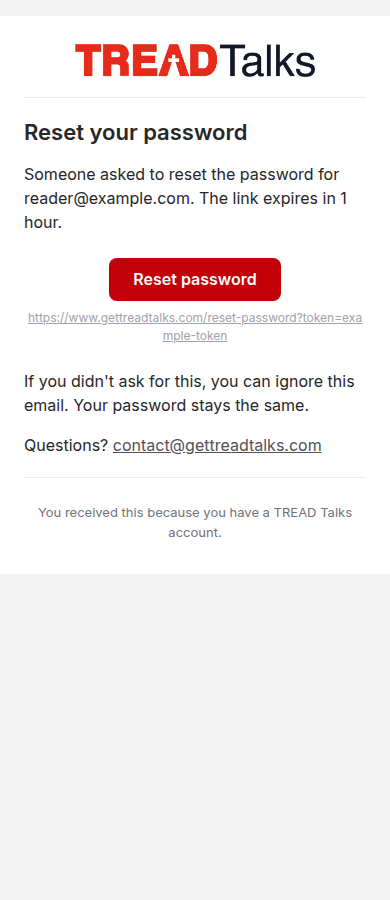
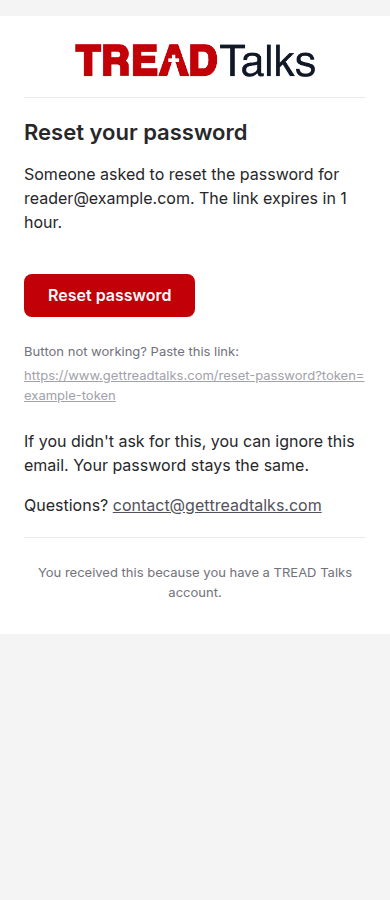
Update VOLTA-284 after shots for email UX review

Changed region(s): [[0.0615, 0.28, 0.9231, 0.6844], [0.1846, 0.0311, 0.5538, 0.0933]]

diff --git a/284/reset-after.html b/284/reset-after.html
@@ -1,1 +1,1 @@
-<!DOCTYPE html PUBLIC "-//W3C//DTD XHTML 1.0 Transitional//EN" "http://www.w3.org/TR/xhtml1/DTD/xhtml1-transitional.dtd"><html dir="ltr" lang="en"><head><meta content="text/html; charset=UTF-8" http-equiv="Content-Type"/><meta name="x-apple-disable-message-reformatting"/><meta content="light" name="color-scheme"/><meta content="light" name="supported-color-schemes"/><title>Reset your TREAD Talks password. This link expires in 1 hour.</title></head><body dir="ltr" lang="en" style="background-color:#f4f4f5;margin:0;padding:0"><!--$--><!--html--><!--head--><div style="display:none;overflow:hidden;line-height:1px;opacity:0;max-height:0;max-width:0" data-skip-in-text="true">Reset your TREAD Talks password. This link expires in 1 hour.<div>                                                                                                                                           </div></div><!--body--><table border="0" width="100%" cellPadding="0" cellSpacing="0" role="presentation" align="center"><tbody><tr><td dir="ltr" lang="en" style="background-color:#f4f4f5;font-family:Inter, ui-sans-serif, -apple-system, BlinkMacSystemFont, &quot;Segoe UI&quot;, Helvetica, Arial, sans-serif;margin:0;padding:16px 0;width:100%"><table align="center" width="100%" border="0" cellPadding="0" cellSpacing="0" role="presentation" style="max-width:600px;background-color:#ffffff;margin:0 auto;width:100%"><tbody><tr style="width:100%"><td style="padding:28px 24px 32px"><table align="center" width="100%" border="0" cellPadding="0" cellSpacing="0" role="presentation" style="text-align:center"><tbody><tr><td><a href="https://www.gettreadtalks.com" style="color:#067df7;text-decoration-line:none;display:inline-block;text-decoration:none" target="_blank"><img alt="TREAD Talks" height="33" src="https://www.gettreadtalks.com/logo.png" style="display:block;outline:none;border:none;text-decoration:none;height:33px;margin:0 auto;width:240px" width="240"/></a></td></tr></tbody></table><hr style="width:100%;border:none;border-color:#e4e4e7;border-top:1px solid #eaeaea;margin:20px 0"/><h1 style="color:#27272a;font-size:22px;font-weight:600;line-height:28px;margin:0 0 16px;padding:0">Reset your password</h1><p style="font-size:16px;line-height:24px;color:#27272a;margin:0 0 16px;margin-top:0;margin-right:0;margin-bottom:16px;margin-left:0">Someone asked to reset the password for <!-- -->reader@example.com<!-- -->. The link expires in 1 hour.</p><table align="center" width="100%" border="0" cellPadding="0" cellSpacing="0" role="presentation" style="margin:24px 0 8px;text-align:center"><tbody><tr><td><a href="https://www.gettreadtalks.com/reset-password?token=example-token" style="line-height:24px;text-decoration:none;display:inline-block;max-width:100%;mso-padding-alt:0px;background-color:#c10007;border-radius:8px;color:#fafafa;font-size:16px;font-weight:600;padding:12px 24px;padding-top:12px;padding-right:24px;padding-bottom:12px;padding-left:24px" target="_blank"><span><!--[if mso]><i style="mso-font-width:400%;mso-text-raise:18px" hidden>&#8202;&#8202;&#8202;</i><![endif]--></span><span style="max-width:100%;display:inline-block;line-height:120%;mso-padding-alt:0px;mso-text-raise:9px">Reset password</span><span><!--[if mso]><i style="mso-font-width:400%" hidden>&#8202;&#8202;&#8202;&#8203;</i><![endif]--></span></a></td></tr></tbody></table><table align="center" width="100%" border="0" cellPadding="0" cellSpacing="0" role="presentation"><tbody><tr><td><a href="https://www.gettreadtalks.com/reset-password?token=example-token" style="color:#a1a1aa;text-decoration-line:none;display:block;font-size:12px;line-height:18px;margin:0 0 24px;text-align:center;text-decoration:underline;word-break:break-all" target="_blank">https://www.gettreadtalks.com/reset-password?token=example-token</a></td></tr></tbody></table><p style="font-size:16px;line-height:24px;color:#27272a;margin:0 0 16px;margin-top:0;margin-right:0;margin-bottom:16px;margin-left:0">If you didn&#x27;t ask for this, you can ignore this email. Your password stays the same.</p><p style="font-size:16px;line-height:24px;color:#27272a;margin:0 0 16px;margin-top:0;margin-right:0;margin-bottom:16px;margin-left:0">Questions?<!-- --> <a href="mailto:contact@gettreadtalks.com" style="color:#52525b;text-decoration-line:none;text-decoration:underline" target="_blank">contact@gettreadtalks.com</a></p><hr style="width:100%;border:none;border-color:#e4e4e7;border-top:1px solid #eaeaea;margin:20px 0"/><table align="center" width="100%" border="0" cellPadding="0" cellSpacing="0" role="presentation" style="text-align:center"><tbody><tr><td style="padding-top:4px"><p style="font-size:13px;line-height:20px;color:#71717a;margin:0;margin-top:0;margin-bottom:0;margin-left:0;margin-right:0">You received this because you have a <!-- -->TREAD Talks<!-- --> account.</p></td></tr></tbody></table></td></tr></tbody></table></td></tr></tbody></table><!--/$--></body></html>
+<!DOCTYPE html PUBLIC "-//W3C//DTD XHTML 1.0 Transitional//EN" "http://www.w3.org/TR/xhtml1/DTD/xhtml1-transitional.dtd"><html dir="ltr" lang="en"><head><meta content="text/html; charset=UTF-8" http-equiv="Content-Type"/><meta name="x-apple-disable-message-reformatting"/><meta content="light" name="color-scheme"/><meta content="light" name="supported-color-schemes"/><title>Reset your TREAD Talks password. This link expires in 1 hour.</title></head><body dir="ltr" lang="en" style="background-color:#f4f4f5;margin:0;padding:0"><!--$--><!--html--><!--head--><div style="display:none;overflow:hidden;line-height:1px;opacity:0;max-height:0;max-width:0" data-skip-in-text="true">Reset your TREAD Talks password. This link expires in 1 hour.<div>                                                                                                                                           </div></div><!--body--><table border="0" width="100%" cellPadding="0" cellSpacing="0" role="presentation" align="center"><tbody><tr><td dir="ltr" lang="en" style="background-color:#f4f4f5;font-family:Inter, ui-sans-serif, -apple-system, BlinkMacSystemFont, &quot;Segoe UI&quot;, Helvetica, Arial, sans-serif;margin:0;padding:16px 0;width:100%"><table align="center" width="100%" border="0" cellPadding="0" cellSpacing="0" role="presentation" style="max-width:600px;background-color:#ffffff;margin:0 auto;width:100%"><tbody><tr style="width:100%"><td style="padding:28px 24px 32px"><table align="center" width="100%" border="0" cellPadding="0" cellSpacing="0" role="presentation" style="text-align:center"><tbody><tr><td><a href="https://www.gettreadtalks.com" style="color:#067df7;text-decoration-line:none;display:inline-block;text-decoration:none" target="_blank"><img alt="TREAD Talks" height="33" src="https://www.gettreadtalks.com/logo.png" style="display:block;outline:none;border:none;text-decoration:none;height:33px;margin:0 auto;width:240px" width="240"/></a></td></tr></tbody></table><hr style="width:100%;border:none;border-color:#e4e4e7;border-top:1px solid #eaeaea;margin:20px 0"/><h1 style="color:#27272a;font-size:22px;font-weight:600;line-height:28px;margin:0 0 16px;padding:0">Reset your password</h1><p style="font-size:16px;line-height:24px;color:#27272a;margin:0 0 16px;margin-top:0;margin-right:0;margin-bottom:16px;margin-left:0">Someone asked to reset the password for <!-- -->reader@example.com<!-- -->. The link expires in 1 hour.</p><table align="left" width="100%" border="0" cellPadding="0" cellSpacing="0" role="presentation" style="margin:24px 0;text-align:left"><tbody><tr><td><a href="https://www.gettreadtalks.com/reset-password?token=example-token" style="line-height:24px;text-decoration:none;display:inline-block;max-width:100%;mso-padding-alt:0px;background-color:#c10007;border-radius:8px;color:#fafafa;font-size:16px;font-weight:600;padding:12px 24px;padding-top:12px;padding-right:24px;padding-bottom:12px;padding-left:24px" target="_blank"><span><!--[if mso]><i style="mso-font-width:400%;mso-text-raise:18px" hidden>&#8202;&#8202;&#8202;</i><![endif]--></span><span style="max-width:100%;display:inline-block;line-height:120%;mso-padding-alt:0px;mso-text-raise:9px">Reset password</span><span><!--[if mso]><i style="mso-font-width:400%" hidden>&#8202;&#8202;&#8202;&#8203;</i><![endif]--></span></a></td></tr></tbody></table><p style="font-size:13px;line-height:20px;color:#71717a;margin:0 0 24px;margin-top:0;margin-right:0;margin-bottom:24px;margin-left:0">Button not working? Paste this link:<a href="https://www.gettreadtalks.com/reset-password?token=example-token" style="color:#a1a1aa;text-decoration-line:none;display:block;font-size:13px;line-height:20px;margin:4px 0 0;text-decoration:underline;word-break:break-all" target="_blank">https://www.gettreadtalks.com/reset-password?token=example-token</a></p><p style="font-size:16px;line-height:24px;color:#27272a;margin:0 0 16px;margin-top:0;margin-right:0;margin-bottom:16px;margin-left:0">If you didn&#x27;t ask for this, you can ignore this email. Your password stays the same.</p><p style="font-size:16px;line-height:24px;color:#27272a;margin:0 0 16px;margin-top:0;margin-right:0;margin-bottom:16px;margin-left:0">Questions?<!-- --> <a href="mailto:contact@gettreadtalks.com" style="color:#52525b;text-decoration-line:none;text-decoration:underline" target="_blank">contact@gettreadtalks.com</a></p><hr style="width:100%;border:none;border-color:#e4e4e7;border-top:1px solid #eaeaea;margin:20px 0"/><table align="center" width="100%" border="0" cellPadding="0" cellSpacing="0" role="presentation" style="text-align:center"><tbody><tr><td style="padding-top:4px"><p style="font-size:13px;line-height:20px;color:#71717a;margin:0;margin-top:0;margin-bottom:0;margin-left:0;margin-right:0">You received this because you have a <!-- -->TREAD Talks<!-- --> account.</p></td></tr></tbody></table></td></tr></tbody></table></td></tr></tbody></table><!--/$--></body></html>

diff --git a/284/verify-after.html b/284/verify-after.html
@@ -1,1 +1,1 @@
-<!DOCTYPE html PUBLIC "-//W3C//DTD XHTML 1.0 Transitional//EN" "http://www.w3.org/TR/xhtml1/DTD/xhtml1-transitional.dtd"><html dir="ltr" lang="en"><head><meta content="text/html; charset=UTF-8" http-equiv="Content-Type"/><meta name="x-apple-disable-message-reformatting"/><meta content="light" name="color-scheme"/><meta content="light" name="supported-color-schemes"/><title>Confirm your email for TREAD Talks. This link expires in 24 hours.</title></head><body dir="ltr" lang="en" style="background-color:#f4f4f5;margin:0;padding:0"><!--$--><!--html--><!--head--><div style="display:none;overflow:hidden;line-height:1px;opacity:0;max-height:0;max-width:0" data-skip-in-text="true">Confirm your email for TREAD Talks. This link expires in 24 hours.<div>                                                                                                                                      </div></div><!--body--><table border="0" width="100%" cellPadding="0" cellSpacing="0" role="presentation" align="center"><tbody><tr><td dir="ltr" lang="en" style="background-color:#f4f4f5;font-family:Inter, ui-sans-serif, -apple-system, BlinkMacSystemFont, &quot;Segoe UI&quot;, Helvetica, Arial, sans-serif;margin:0;padding:16px 0;width:100%"><table align="center" width="100%" border="0" cellPadding="0" cellSpacing="0" role="presentation" style="max-width:600px;background-color:#ffffff;margin:0 auto;width:100%"><tbody><tr style="width:100%"><td style="padding:28px 24px 32px"><table align="center" width="100%" border="0" cellPadding="0" cellSpacing="0" role="presentation" style="text-align:center"><tbody><tr><td><a href="https://www.gettreadtalks.com" style="color:#067df7;text-decoration-line:none;display:inline-block;text-decoration:none" target="_blank"><img alt="TREAD Talks" height="33" src="https://www.gettreadtalks.com/logo.png" style="display:block;outline:none;border:none;text-decoration:none;height:33px;margin:0 auto;width:240px" width="240"/></a></td></tr></tbody></table><hr style="width:100%;border:none;border-color:#e4e4e7;border-top:1px solid #eaeaea;margin:20px 0"/><h1 style="color:#27272a;font-size:22px;font-weight:600;line-height:28px;margin:0 0 16px;padding:0">Confirm your email</h1><p style="font-size:16px;line-height:24px;color:#27272a;margin:0 0 16px;margin-top:0;margin-right:0;margin-bottom:16px;margin-left:0">Finish creating your <!-- -->TREAD Talks<!-- --> account. This link expires in 24 hours.</p><table align="center" width="100%" border="0" cellPadding="0" cellSpacing="0" role="presentation" style="margin:24px 0 8px;text-align:center"><tbody><tr><td><a href="https://www.gettreadtalks.com/verify-email?token=example-token" style="line-height:24px;text-decoration:none;display:inline-block;max-width:100%;mso-padding-alt:0px;background-color:#c10007;border-radius:8px;color:#fafafa;font-size:16px;font-weight:600;padding:12px 24px;padding-top:12px;padding-right:24px;padding-bottom:12px;padding-left:24px" target="_blank"><span><!--[if mso]><i style="mso-font-width:400%;mso-text-raise:18px" hidden>&#8202;&#8202;&#8202;</i><![endif]--></span><span style="max-width:100%;display:inline-block;line-height:120%;mso-padding-alt:0px;mso-text-raise:9px">Verify email</span><span><!--[if mso]><i style="mso-font-width:400%" hidden>&#8202;&#8202;&#8202;&#8203;</i><![endif]--></span></a></td></tr></tbody></table><table align="center" width="100%" border="0" cellPadding="0" cellSpacing="0" role="presentation"><tbody><tr><td><a href="https://www.gettreadtalks.com/verify-email?token=example-token" style="color:#a1a1aa;text-decoration-line:none;display:block;font-size:12px;line-height:18px;margin:0 0 24px;text-align:center;text-decoration:underline;word-break:break-all" target="_blank">https://www.gettreadtalks.com/verify-email?token=example-token</a></td></tr></tbody></table><p style="font-size:16px;line-height:24px;color:#27272a;margin:0 0 16px;margin-top:0;margin-right:0;margin-bottom:16px;margin-left:0">If you didn&#x27;t create an account, you can ignore this email.</p><p style="font-size:16px;line-height:24px;color:#27272a;margin:0 0 16px;margin-top:0;margin-right:0;margin-bottom:16px;margin-left:0">Questions?<!-- --> <a href="mailto:contact@gettreadtalks.com" style="color:#52525b;text-decoration-line:none;text-decoration:underline" target="_blank">contact@gettreadtalks.com</a></p><hr style="width:100%;border:none;border-color:#e4e4e7;border-top:1px solid #eaeaea;margin:20px 0"/><table align="center" width="100%" border="0" cellPadding="0" cellSpacing="0" role="presentation" style="text-align:center"><tbody><tr><td style="padding-top:4px"><p style="font-size:13px;line-height:20px;color:#71717a;margin:0;margin-top:0;margin-bottom:0;margin-left:0;margin-right:0">You received this because you have a <!-- -->TREAD Talks<!-- --> account.</p></td></tr></tbody></table></td></tr></tbody></table></td></tr></tbody></table><!--/$--></body></html>
+<!DOCTYPE html PUBLIC "-//W3C//DTD XHTML 1.0 Transitional//EN" "http://www.w3.org/TR/xhtml1/DTD/xhtml1-transitional.dtd"><html dir="ltr" lang="en"><head><meta content="text/html; charset=UTF-8" http-equiv="Content-Type"/><meta name="x-apple-disable-message-reformatting"/><meta content="light" name="color-scheme"/><meta content="light" name="supported-color-schemes"/><title>Confirm your email for TREAD Talks. This link expires in 24 hours.</title></head><body dir="ltr" lang="en" style="background-color:#f4f4f5;margin:0;padding:0"><!--$--><!--html--><!--head--><div style="display:none;overflow:hidden;line-height:1px;opacity:0;max-height:0;max-width:0" data-skip-in-text="true">Confirm your email for TREAD Talks. This link expires in 24 hours.<div>                                                                                                                                      </div></div><!--body--><table border="0" width="100%" cellPadding="0" cellSpacing="0" role="presentation" align="center"><tbody><tr><td dir="ltr" lang="en" style="background-color:#f4f4f5;font-family:Inter, ui-sans-serif, -apple-system, BlinkMacSystemFont, &quot;Segoe UI&quot;, Helvetica, Arial, sans-serif;margin:0;padding:16px 0;width:100%"><table align="center" width="100%" border="0" cellPadding="0" cellSpacing="0" role="presentation" style="max-width:600px;background-color:#ffffff;margin:0 auto;width:100%"><tbody><tr style="width:100%"><td style="padding:28px 24px 32px"><table align="center" width="100%" border="0" cellPadding="0" cellSpacing="0" role="presentation" style="text-align:center"><tbody><tr><td><a href="https://www.gettreadtalks.com" style="color:#067df7;text-decoration-line:none;display:inline-block;text-decoration:none" target="_blank"><img alt="TREAD Talks" height="33" src="https://www.gettreadtalks.com/logo.png" style="display:block;outline:none;border:none;text-decoration:none;height:33px;margin:0 auto;width:240px" width="240"/></a></td></tr></tbody></table><hr style="width:100%;border:none;border-color:#e4e4e7;border-top:1px solid #eaeaea;margin:20px 0"/><h1 style="color:#27272a;font-size:22px;font-weight:600;line-height:28px;margin:0 0 16px;padding:0">Confirm your email</h1><p style="font-size:16px;line-height:24px;color:#27272a;margin:0 0 16px;margin-top:0;margin-right:0;margin-bottom:16px;margin-left:0">Finish creating your <!-- -->TREAD Talks<!-- --> account. This link expires in 24 hours.</p><table align="left" width="100%" border="0" cellPadding="0" cellSpacing="0" role="presentation" style="margin:24px 0;text-align:left"><tbody><tr><td><a href="https://www.gettreadtalks.com/verify-email?token=example-token" style="line-height:24px;text-decoration:none;display:inline-block;max-width:100%;mso-padding-alt:0px;background-color:#c10007;border-radius:8px;color:#fafafa;font-size:16px;font-weight:600;padding:12px 24px;padding-top:12px;padding-right:24px;padding-bottom:12px;padding-left:24px" target="_blank"><span><!--[if mso]><i style="mso-font-width:400%;mso-text-raise:18px" hidden>&#8202;&#8202;&#8202;</i><![endif]--></span><span style="max-width:100%;display:inline-block;line-height:120%;mso-padding-alt:0px;mso-text-raise:9px">Verify email</span><span><!--[if mso]><i style="mso-font-width:400%" hidden>&#8202;&#8202;&#8202;&#8203;</i><![endif]--></span></a></td></tr></tbody></table><p style="font-size:13px;line-height:20px;color:#71717a;margin:0 0 24px;margin-top:0;margin-right:0;margin-bottom:24px;margin-left:0">Button not working? Paste this link:<a href="https://www.gettreadtalks.com/verify-email?token=example-token" style="color:#a1a1aa;text-decoration-line:none;display:block;font-size:13px;line-height:20px;margin:4px 0 0;text-decoration:underline;word-break:break-all" target="_blank">https://www.gettreadtalks.com/verify-email?token=example-token</a></p><p style="font-size:16px;line-height:24px;color:#27272a;margin:0 0 16px;margin-top:0;margin-right:0;margin-bottom:16px;margin-left:0">If you didn&#x27;t create an account, you can ignore this email.</p><p style="font-size:16px;line-height:24px;color:#27272a;margin:0 0 16px;margin-top:0;margin-right:0;margin-bottom:16px;margin-left:0">Questions?<!-- --> <a href="mailto:contact@gettreadtalks.com" style="color:#52525b;text-decoration-line:none;text-decoration:underline" target="_blank">contact@gettreadtalks.com</a></p><hr style="width:100%;border:none;border-color:#e4e4e7;border-top:1px solid #eaeaea;margin:20px 0"/><table align="center" width="100%" border="0" cellPadding="0" cellSpacing="0" role="presentation" style="text-align:center"><tbody><tr><td style="padding-top:4px"><p style="font-size:13px;line-height:20px;color:#71717a;margin:0;margin-top:0;margin-bottom:0;margin-left:0;margin-right:0">You received this because you have a <!-- -->TREAD Talks<!-- --> account.</p></td></tr></tbody></table></td></tr></tbody></table></td></tr></tbody></table><!--/$--></body></html>

diff --git a/284/welcome-after.html b/284/welcome-after.html
@@ -1,1 +1,1 @@
-<!DOCTYPE html PUBLIC "-//W3C//DTD XHTML 1.0 Transitional//EN" "http://www.w3.org/TR/xhtml1/DTD/xhtml1-transitional.dtd"><html dir="ltr" lang="en"><head><meta content="text/html; charset=UTF-8" http-equiv="Content-Type"/><meta name="x-apple-disable-message-reformatting"/><meta content="light" name="color-scheme"/><meta content="light" name="supported-color-schemes"/><title>Welcome to TREAD Talks, Pat.</title></head><body dir="ltr" lang="en" style="background-color:#f4f4f5;margin:0;padding:0"><!--$--><!--html--><!--head--><div style="display:none;overflow:hidden;line-height:1px;opacity:0;max-height:0;max-width:0" data-skip-in-text="true">Welcome to TREAD Talks, Pat.<div>                                                                                                                                                                            </div></div><!--body--><table border="0" width="100%" cellPadding="0" cellSpacing="0" role="presentation" align="center"><tbody><tr><td dir="ltr" lang="en" style="background-color:#f4f4f5;font-family:Inter, ui-sans-serif, -apple-system, BlinkMacSystemFont, &quot;Segoe UI&quot;, Helvetica, Arial, sans-serif;margin:0;padding:16px 0;width:100%"><table align="center" width="100%" border="0" cellPadding="0" cellSpacing="0" role="presentation" style="max-width:600px;background-color:#ffffff;margin:0 auto;width:100%"><tbody><tr style="width:100%"><td style="padding:28px 24px 32px"><table align="center" width="100%" border="0" cellPadding="0" cellSpacing="0" role="presentation" style="text-align:center"><tbody><tr><td><a href="https://www.gettreadtalks.com" style="color:#067df7;text-decoration-line:none;display:inline-block;text-decoration:none" target="_blank"><img alt="TREAD Talks" height="33" src="https://www.gettreadtalks.com/logo.png" style="display:block;outline:none;border:none;text-decoration:none;height:33px;margin:0 auto;width:240px" width="240"/></a></td></tr></tbody></table><hr style="width:100%;border:none;border-color:#e4e4e7;border-top:1px solid #eaeaea;margin:20px 0"/><h1 style="color:#27272a;font-size:22px;font-weight:600;line-height:28px;margin:0 0 16px;padding:0">Welcome, Pat</h1><p style="font-size:16px;line-height:24px;color:#27272a;margin:0 0 16px;margin-top:0;margin-right:0;margin-bottom:16px;margin-left:0">Your <!-- -->TREAD Talks<!-- --> account is ready. Browse talks and save favorites to come back to.</p><table align="center" width="100%" border="0" cellPadding="0" cellSpacing="0" role="presentation" style="margin:24px 0 8px;text-align:center"><tbody><tr><td><a href="https://www.gettreadtalks.com" style="line-height:24px;text-decoration:none;display:inline-block;max-width:100%;mso-padding-alt:0px;background-color:#c10007;border-radius:8px;color:#fafafa;font-size:16px;font-weight:600;padding:12px 24px;padding-top:12px;padding-right:24px;padding-bottom:12px;padding-left:24px" target="_blank"><span><!--[if mso]><i style="mso-font-width:400%;mso-text-raise:18px" hidden>&#8202;&#8202;&#8202;</i><![endif]--></span><span style="max-width:100%;display:inline-block;line-height:120%;mso-padding-alt:0px;mso-text-raise:9px">Explore talks</span><span><!--[if mso]><i style="mso-font-width:400%" hidden>&#8202;&#8202;&#8202;&#8203;</i><![endif]--></span></a></td></tr></tbody></table><table align="center" width="100%" border="0" cellPadding="0" cellSpacing="0" role="presentation"><tbody><tr><td><a href="https://www.gettreadtalks.com" style="color:#a1a1aa;text-decoration-line:none;display:block;font-size:12px;line-height:18px;margin:0 0 24px;text-align:center;text-decoration:underline;word-break:break-all" target="_blank">https://www.gettreadtalks.com</a></td></tr></tbody></table><p style="font-size:16px;line-height:24px;color:#27272a;margin:0 0 16px;margin-top:0;margin-right:0;margin-bottom:16px;margin-left:0">Questions?<!-- --> <a href="mailto:contact@gettreadtalks.com" style="color:#52525b;text-decoration-line:none;text-decoration:underline" target="_blank">contact@gettreadtalks.com</a></p><hr style="width:100%;border:none;border-color:#e4e4e7;border-top:1px solid #eaeaea;margin:20px 0"/><table align="center" width="100%" border="0" cellPadding="0" cellSpacing="0" role="presentation" style="text-align:center"><tbody><tr><td style="padding-top:4px"><p style="font-size:13px;line-height:20px;color:#71717a;margin:0;margin-top:0;margin-bottom:0;margin-left:0;margin-right:0">You received this because you have a <!-- -->TREAD Talks<!-- --> account.</p></td></tr></tbody></table></td></tr></tbody></table></td></tr></tbody></table><!--/$--></body></html>
+<!DOCTYPE html PUBLIC "-//W3C//DTD XHTML 1.0 Transitional//EN" "http://www.w3.org/TR/xhtml1/DTD/xhtml1-transitional.dtd"><html dir="ltr" lang="en"><head><meta content="text/html; charset=UTF-8" http-equiv="Content-Type"/><meta name="x-apple-disable-message-reformatting"/><meta content="light" name="color-scheme"/><meta content="light" name="supported-color-schemes"/><title>Welcome to TREAD Talks, Pat.</title></head><body dir="ltr" lang="en" style="background-color:#f4f4f5;margin:0;padding:0"><!--$--><!--html--><!--head--><div style="display:none;overflow:hidden;line-height:1px;opacity:0;max-height:0;max-width:0" data-skip-in-text="true">Welcome to TREAD Talks, Pat.<div>                                                                                                                                                                            </div></div><!--body--><table border="0" width="100%" cellPadding="0" cellSpacing="0" role="presentation" align="center"><tbody><tr><td dir="ltr" lang="en" style="background-color:#f4f4f5;font-family:Inter, ui-sans-serif, -apple-system, BlinkMacSystemFont, &quot;Segoe UI&quot;, Helvetica, Arial, sans-serif;margin:0;padding:16px 0;width:100%"><table align="center" width="100%" border="0" cellPadding="0" cellSpacing="0" role="presentation" style="max-width:600px;background-color:#ffffff;margin:0 auto;width:100%"><tbody><tr style="width:100%"><td style="padding:28px 24px 32px"><table align="center" width="100%" border="0" cellPadding="0" cellSpacing="0" role="presentation" style="text-align:center"><tbody><tr><td><a href="https://www.gettreadtalks.com" style="color:#067df7;text-decoration-line:none;display:inline-block;text-decoration:none" target="_blank"><img alt="TREAD Talks" height="33" src="https://www.gettreadtalks.com/logo.png" style="display:block;outline:none;border:none;text-decoration:none;height:33px;margin:0 auto;width:240px" width="240"/></a></td></tr></tbody></table><hr style="width:100%;border:none;border-color:#e4e4e7;border-top:1px solid #eaeaea;margin:20px 0"/><h1 style="color:#27272a;font-size:22px;font-weight:600;line-height:28px;margin:0 0 16px;padding:0">Welcome, Pat</h1><p style="font-size:16px;line-height:24px;color:#27272a;margin:0 0 16px;margin-top:0;margin-right:0;margin-bottom:16px;margin-left:0">Your <!-- -->TREAD Talks<!-- --> account is ready. Browse talks and save favorites to come back to.</p><table align="left" width="100%" border="0" cellPadding="0" cellSpacing="0" role="presentation" style="margin:24px 0;text-align:left"><tbody><tr><td><a href="https://www.gettreadtalks.com" style="line-height:24px;text-decoration:none;display:inline-block;max-width:100%;mso-padding-alt:0px;background-color:#c10007;border-radius:8px;color:#fafafa;font-size:16px;font-weight:600;padding:12px 24px;padding-top:12px;padding-right:24px;padding-bottom:12px;padding-left:24px" target="_blank"><span><!--[if mso]><i style="mso-font-width:400%;mso-text-raise:18px" hidden>&#8202;&#8202;&#8202;</i><![endif]--></span><span style="max-width:100%;display:inline-block;line-height:120%;mso-padding-alt:0px;mso-text-raise:9px">Explore talks</span><span><!--[if mso]><i style="mso-font-width:400%" hidden>&#8202;&#8202;&#8202;&#8203;</i><![endif]--></span></a></td></tr></tbody></table><p style="font-size:16px;line-height:24px;color:#27272a;margin:0 0 16px;margin-top:0;margin-right:0;margin-bottom:16px;margin-left:0">Questions?<!-- --> <a href="mailto:contact@gettreadtalks.com" style="color:#52525b;text-decoration-line:none;text-decoration:underline" target="_blank">contact@gettreadtalks.com</a></p><hr style="width:100%;border:none;border-color:#e4e4e7;border-top:1px solid #eaeaea;margin:20px 0"/><table align="center" width="100%" border="0" cellPadding="0" cellSpacing="0" role="presentation" style="text-align:center"><tbody><tr><td style="padding-top:4px"><p style="font-size:13px;line-height:20px;color:#71717a;margin:0;margin-top:0;margin-bottom:0;margin-left:0;margin-right:0">You received this because you have a <!-- -->TREAD Talks<!-- --> account.</p></td></tr></tbody></table></td></tr></tbody></table></td></tr></tbody></table><!--/$--></body></html>
